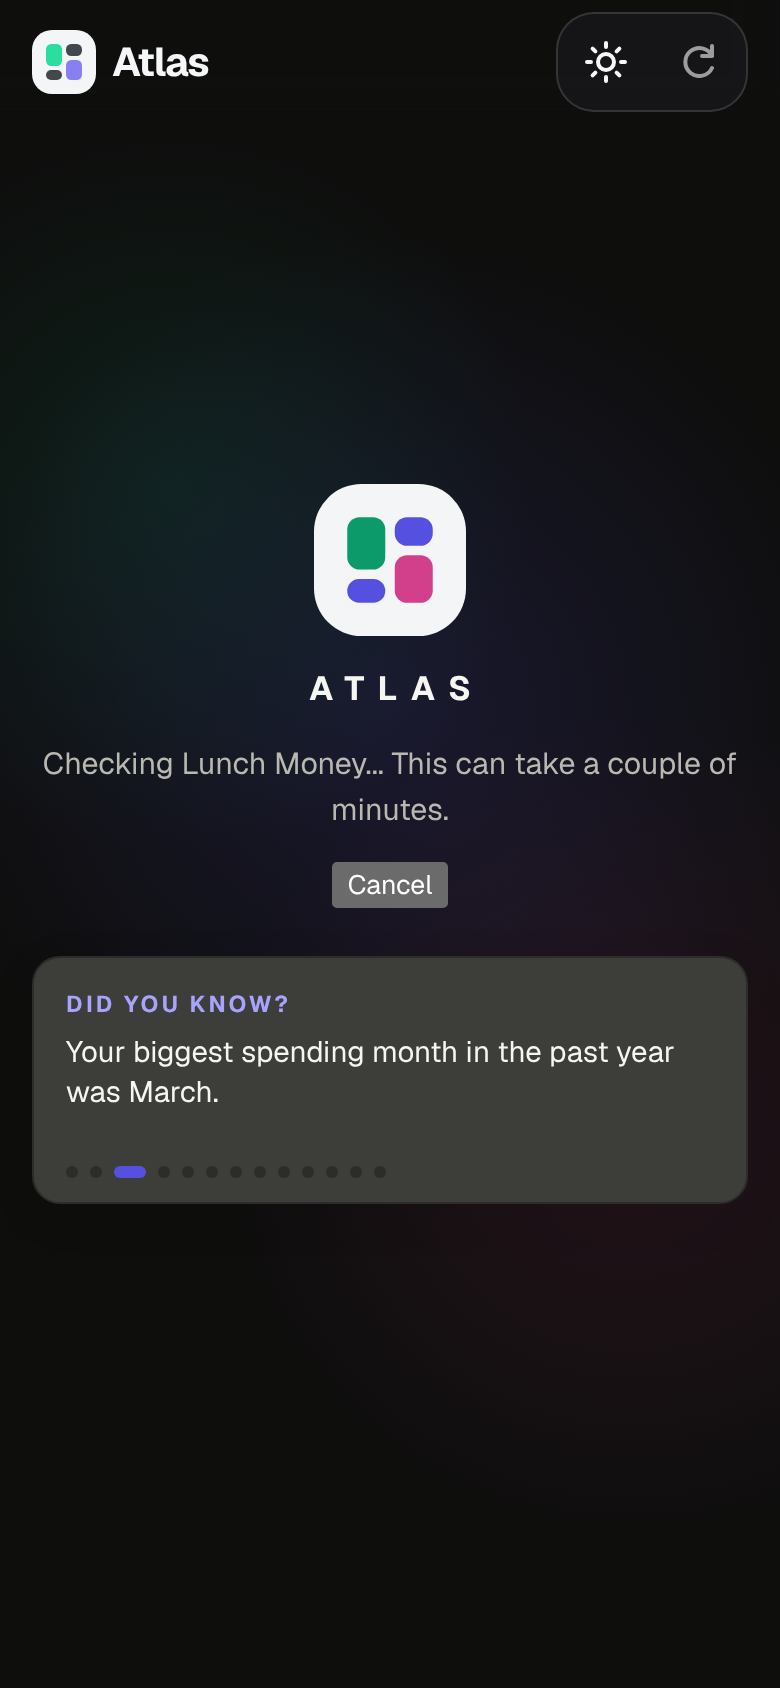
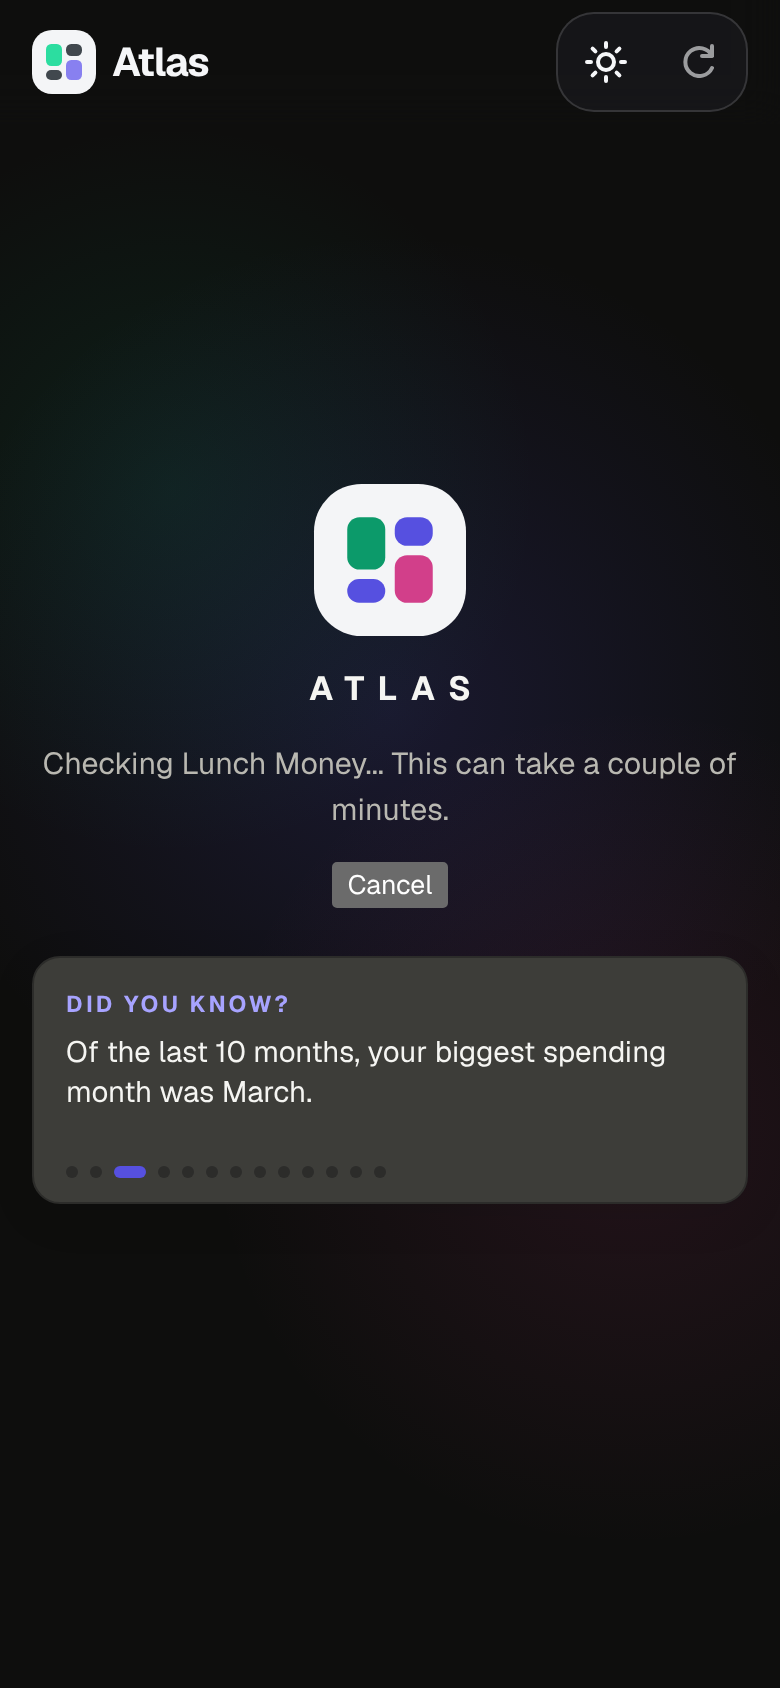
Loading facts: read only an unbroken run of fully covered months
Pre-review blockers on 4102734b: a missing month made the month-on-month
fact compare non-adjacent months, and months with cards not covered or a
partly covered first month could be named. Facts now read only an unbroken
run of months counting back from last month, each published, after the
coverage start's first full month, with cardsCovered true; the first gap
ends the run. Month facts say how many months they cover. The year
category fact needs every month of the year covered from January.
Tests add hand-derived gap, uncovered and partial-start cases.

Claude-Session: https://claude.ai/code/session_01B4JZd2kVDemmxCj9NKPTUa

Changed region(s): [[0.0923, 0.6161, 0.8615, 0.6777]]

diff --git a/public/app.js b/public/app.js
@@ -857,9 +857,11 @@ const App = (() => {
     //     Refresh (the long "Checking Lunch Money" wait) shows facts too.
     //     Facts name a month, a category or a count, never an amount, and
     //     they compute no new money figure: they only pick which published
-    //     month or category is largest. Nothing is stored. Any history that
-    //     is not marked complete, or a value that is missing, drops the
-    //     fact rather than guessing.
+    //     month or category is largest. Nothing is stored. They read only an
+    //     unbroken run of fully covered months (cards included, after the
+    //     coverage start), counting back from last month; a history not
+    //     marked complete, a gap, or an uncovered month ends the run or drops
+    //     the fact rather than guessing.
     // The card is aria-hidden decoration like the treatment, so the notice
     // stays the single role="status" announcer. The entrance motion is CSS
     // and stops under prefers-reduced-motion (the text still changes). The
@@ -877,8 +879,8 @@ const App = (() => {
     ]);
     // Fact templates: placeholders only, never a figure in the source.
     const BOOT_FACT_TEMPLATES = Object.freeze({
-      biggestMonth: 'Your biggest spending month in the past year was {month}.',
-      lightestMonth: 'Your lightest spending month in the past year was {month}.',
+      biggestMonth: 'Of the last {total} months, your biggest spending month was {month}.',
+      lightestMonth: 'Of the last {total} months, your lightest spending month was {month}.',
       topCategory: 'So far this year, your biggest spending category is {category}.',
       lessThanBefore: 'In {count} of the last {total} months, you spent less than the month before.',
     });
@@ -890,33 +892,59 @@ const App = (() => {
     const bootFacts = periods => {
       if (!periods || typeof periods !== 'object' || !periods.source || periods.source.complete !== true) return [];
       const current = typeof periods.thisMonth === 'string' ? periods.thisMonth : null;
+      const coverageStart = typeof periods.source.coverageStart === 'string' ? periods.source.coverageStart : null;
       const monthName = key => MONTH_NAMES[Number(String(key).slice(5, 7)) - 1] || null;
       const isMonth = key => typeof key === 'string' && /^\d{4}-\d{2}$/.test(key) && !!monthName(key);
-      const closed = (Array.isArray(periods.monthly) ? periods.monthly : [])
-        .filter(row => row && isMonth(row.m) && current && row.m < current
-          && typeof row.spending === 'number' && Number.isFinite(row.spending) && row.spending >= 0)
-        .sort((a, b) => (a.m < b.m ? -1 : 1))
-        .slice(-12);
-      const facts = [];
-      // The single largest / smallest published month; a tie names nothing.
-      const extreme = pick => {
-        const best = closed.reduce((acc, row) => (acc == null || pick(row.spending, acc.spending) ? row : acc), null);
-        return best && closed.filter(row => row.spending === best.spending).length === 1 ? best : null;
+      if (!isMonth(current) || !coverageStart || !/^\d{4}-\d{2}-\d{2}$/.test(coverageStart)) return [];
+      const prevMonth = key => {
+        const y = Number(key.slice(0, 4)), m = Number(key.slice(5, 7));
+        return m === 1 ? `${y - 1}-12` : `${y}-${String(m - 1).padStart(2, '0')}`;
       };
-      if (closed.length >= 3) {
-        const big = extreme((a, b) => a > b);
-        if (big) facts.push(fill(BOOT_FACT_TEMPLATES.biggestMonth, { month: monthName(big.m) }));
-        const light = extreme((a, b) => a < b);
-        if (light) facts.push(fill(BOOT_FACT_TEMPLATES.lightestMonth, { month: monthName(light.m) }));
+      // The first month the history covers in full: the coverage start's own
+      // month only when coverage starts on its first day.
+      const startMonth = coverageStart.slice(0, 7);
+      const firstFull = coverageStart.slice(8, 10) === '01' ? startMonth
+        : (() => { const y = Number(startMonth.slice(0, 4)), m = Number(startMonth.slice(5, 7));
+          return m === 12 ? `${y + 1}-01` : `${y}-${String(m + 1).padStart(2, '0')}`; })();
+      // A month is usable only when it is published, fully covered (cards
+      // included) and has a real spending value.
+      const byMonth = new Map((Array.isArray(periods.monthly) ? periods.monthly : [])
+        .filter(row => row && isMonth(row.m)).map(row => [row.m, row]));
+      const usable = key => {
+        const row = byMonth.get(key);
+        return !!row && key >= firstFull && row.cardsCovered === true
+          && typeof row.spending === 'number' && Number.isFinite(row.spending) && row.spending >= 0;
+      };
+      // An unbroken run of usable months, counting back from last month;
+      // the first gap, uncovered or missing month ends it. Oldest first.
+      const run = [];
+      for (let key = prevMonth(current); run.length < 12 && usable(key); key = prevMonth(key)) run.unshift(byMonth.get(key));
+      const facts = [];
+      // The single largest / smallest month in the run; a tie names nothing.
+      const extreme = pick => {
+        const best = run.reduce((acc, row) => (acc == null || pick(row.spending, acc.spending) ? row : acc), null);
+        return best && run.filter(row => row.spending === best.spending).length === 1 ? best : null;
+      };
+      if (run.length >= 3) {
+        const big = extreme((x, y) => x > y);
+        if (big) facts.push(fill(BOOT_FACT_TEMPLATES.biggestMonth, { total: run.length, month: monthName(big.m) }));
+        const light = extreme((x, y) => x < y);
+        if (light) facts.push(fill(BOOT_FACT_TEMPLATES.lightestMonth, { total: run.length, month: monthName(light.m) }));
       }
-      const recent = closed.slice(-6);
+      // Consecutive months only: the run has no gaps.
+      const recent = run.slice(-6);
       if (recent.length >= 4) {
         const total = recent.length - 1;
         const count = recent.slice(1).filter((row, i) => row.spending < recent[i].spending).length;
         facts.push(fill(BOOT_FACT_TEMPLATES.lessThanBefore, { count, total }));
       }
+      // "So far this year" needs every month of this year, up to last
+      // month, fully covered (and coverage from the year's first day).
+      const year = current.slice(0, 4);
+      let yearCovered = firstFull <= `${year}-01`;
+      for (let key = prevMonth(current); yearCovered && key >= `${year}-01`; key = prevMonth(key)) yearCovered = usable(key);
       const ytd = periods.periods && periods.periods.ytd;
-      const categories = (ytd && Array.isArray(ytd.spending) ? ytd.spending : [])
+      const categories = (yearCovered && ytd && Array.isArray(ytd.spending) ? ytd.spending : [])
         .filter(row => row && (row.type === 'essential' || row.type === 'discretionary')
           && typeof row.label === 'string' && row.label.trim()
           && typeof row.total === 'number' && Number.isFinite(row.total) && row.total > 0);

diff --git a/test/test-boot-tips.js b/test/test-boot-tips.js
@@ -15,8 +15,10 @@
 //   6  /data.json is requested before the card exists;
 //   7  facts come only from the history already in memory: a Manual Refresh
 //      after a load with an invented history shows exactly the facts
-//      hand-derived below, with no amount; a history not marked complete,
-//      or none at all, gives tips only;
+//      hand-derived below, with no amount; facts read only an unbroken run
+//      of fully covered months, so a gap, an uncovered month or a partial
+//      first month changes them exactly as hand-derived; a history not
+//      marked complete, or none at all, gives tips only;
 //   8  the committed tip and fact copy in public/app.js has no digit or
 //      currency sign (templates use placeholders).
 // Served from public/ through page.route; every figure served is invented.
@@ -121,26 +123,44 @@ async function lap(page) {
 }
 
 // An invented published history in the periods.json shape. Closed months
-// Jan-Oct 2026; November is the current, partial month and is ignored.
+// Jan-Oct 2026; November is the current, partial month and is never used.
 //   monthly spending: Jan 500, Feb 520, Mar 900, Apr 610, May 600, Jun 650,
 //                     Jul 640, Aug 300, Sep 450, Oct 420 (Nov 100 current)
-// Hand-derived facts:
-//   biggest month   = March (900, unique)
-//   lightest month  = August (300, unique)
-//   last six closed = May 600, Jun 650, Jul 640, Aug 300, Sep 450, Oct 420;
+// Facts read an unbroken run of fully covered months counting back from
+// October. Hand-derived for each variant:
+//   full history (coverage from Jan 1): run Jan-Oct, 10 months
+//     biggest March (900), lightest August (300)
+//     last six = May 600, Jun 650, Jul 640, Aug 300, Sep 450, Oct 420;
 //     less than the month before: Jun no, Jul yes, Aug yes, Sep no, Oct yes
 //     -> 3 of the last 5
-//   top category this year: essential/discretionary only (business is not
-//     household spending) -> Invented groceries (900 > 400; 5000 is business)
+//     top category this year (essential/discretionary; business excluded):
+//     Invented groceries (900 > 400)
+//   July missing: run Aug-Oct, 3 months -> biggest September (450),
+//     lightest August (300); too short for the month-on-month fact; the year
+//     is not fully covered, so no category fact
+//   September cards not covered: run Oct only -> no month facts; year not
+//     covered -> tips only
+//   coverage starts Jan 15: January is partial, run Feb-Oct, 9 months ->
+//     biggest March, lightest August, 3 of 5; the year is not covered from
+//     its first day, so no category fact
 const MONTHLY = [['2026-01', 500], ['2026-02', 520], ['2026-03', 900], ['2026-04', 610], ['2026-05', 600],
   ['2026-06', 650], ['2026-07', 640], ['2026-08', 300], ['2026-09', 450], ['2026-10', 420], ['2026-11', 100]];
 const EXPECTED_FACTS = [
-  'Your biggest spending month in the past year was March.',
-  'Your lightest spending month in the past year was August.',
+  'Of the last 10 months, your biggest spending month was March.',
+  'Of the last 10 months, your lightest spending month was August.',
   'In 3 of the last 5 months, you spent less than the month before.',
   'So far this year, your biggest spending category is Invented groceries.',
 ];
-function inventedPeriods({ complete = true } = {}) {
+const EXPECTED_GAP = [
+  'Of the last 3 months, your biggest spending month was September.',
+  'Of the last 3 months, your lightest spending month was August.',
+];
+const EXPECTED_PARTIAL_START = [
+  'Of the last 9 months, your biggest spending month was March.',
+  'Of the last 9 months, your lightest spending month was August.',
+  'In 3 of the last 5 months, you spent less than the month before.',
+];
+function inventedPeriods({ complete = true, coverageStart = '2026-01-01', drop = [], uncovered = [] } = {}) {
   const block = (label, months) => ({ label, months,
     spending: [
       { label: 'Invented groceries', total: 900, type: 'essential' },
@@ -150,10 +170,11 @@ function inventedPeriods({ complete = true } = {}) {
     spendingTotal: 6300, fees: [], feesTotal: 0, interest: [], interestTotal: 0 });
   return {
     asOf: '2026-11-14', thisMonth: '2026-11', lastMonth: '2026-10',
-    source: { basis: 'invented', complete, coverageStart: '2026-01-01', coverageThrough: '2026-11-14' },
+    source: { basis: 'invented', complete, coverageStart, coverageThrough: '2026-11-14' },
     periods: { thisMonth: block('This month', 1), lastMonth: block('Last month', 1),
       ytd: block('Year to date', 11), all: block('All', 11) },
-    monthly: MONTHLY.map(([m, spending]) => ({ m, spending, interest: 0, fees: 0, cardsCovered: true })),
+    monthly: MONTHLY.filter(([m]) => !drop.includes(m))
+      .map(([m, spending]) => ({ m, spending, interest: 0, fees: 0, cardsCovered: !uncovered.includes(m) })),
   };
 }
 const inventedData = () => require('./fixtures/budget-surface-data').served();
@@ -257,6 +278,20 @@ async function refreshScreen(browser, periods, contextOpts = {}) {
         'the category named in a fact comes from the served history, not the source');
       await context.close();
     }
+    const factsFor = async (periods) => {
+      const { context, page } = await refreshScreen(browser, periods);
+      const lines = await lap(page);
+      await context.close();
+      return lines.filter(x => x.kind === 'fact').map(x => x.text).sort();
+    };
+    const gap = await factsFor(inventedPeriods({ drop: ['2026-07'] }));
+    ok(JSON.stringify(gap) === JSON.stringify(EXPECTED_GAP.slice().sort()),
+      'a missing month ends the run: never compares non-adjacent months', JSON.stringify(gap));
+    const uncov = await factsFor(inventedPeriods({ uncovered: ['2026-09'] }));
+    ok(uncov.length === 0, 'a month with cards not covered ends the run: tips only here', JSON.stringify(uncov));
+    const partial = await factsFor(inventedPeriods({ coverageStart: '2026-01-15' }));
+    ok(JSON.stringify(partial) === JSON.stringify(EXPECTED_PARTIAL_START.slice().sort()),
+      'a partly covered first month is never used, and no year fact', JSON.stringify(partial));
     {
       const { context, page } = await refreshScreen(browser, inventedPeriods({ complete: false }));
       const lines = await lap(page);
